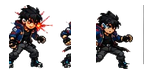
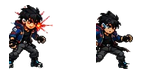
Fix wall-slide slicing and crop leakage in player sheets
Audit findings (docs/AUDITORIA_VISUAL_2026-10-30.md):
- All four wall_slide sheets held 2-3 poses at irregular x, but the game
  slices 4 equal cells, so frames showed half bodies (Jhon's 4th frame was
  a lone 1 px guide line). tools/visual/repack_wall_slide.py moves each
  whole pose, pixel-identical, into its own centred cell (A,B,A,B or
  A,B,C,B); sheet sizes are unchanged and the per-frame offsets go to 0.
- Jhon idle/walk/hurt/wall_climb kept slivers of neighbouring poses at
  cell edges. tools/visual/clean_sheet_fragments.py erases only the
  reviewed fragments listed in its manifest; no body pixel changes.

The wall-alignment smoke test now measures centring from the sheet itself.

Claude-Session: https://claude.ai/code/session_01BsDvQbboM7WnaEtQSbuWgs

Changed region(s): [[0.375, 0.3056, 0.4688, 0.9444], [0.875, 0.0833, 0.9062, 0.8889]]

diff --git a/tools/visual/repack_wall_slide.py b/tools/visual/repack_wall_slide.py
@@ -1,0 +1,111 @@
+"""Repack the wall-slide sheets so each 4-frame cell holds one whole pose.
+
+The source sheets hold 2-3 poses at irregular x positions, but the game slices them
+into 4 equal cells (PlayerCharacterVisual: wall_slide = 4 frames), so frames showed
+half bodies and, for Jhon, a frame with only a stray 1 px line. This keeps every pose
+pixel-identical: it only moves whole poses into centred cells, drops specks that are
+not part of a pose, and keeps sheet size and vertical placement unchanged.
+
+    python3 -I tools/visual/repack_wall_slide.py [--check]
+"""
+from __future__ import annotations
+
+import sys
+from pathlib import Path
+
+from PIL import Image
+
+ROOT = Path(__file__).resolve().parents[2]
+SHEETS = {
+    "jhon": "assets/players/jhon/jhon_v2_wall_slide_v2.png",
+    "jackson": "assets/players/jackson/jackson_wall_slide_v1.png",
+    "kai": "assets/players/kai/kai_wall_slide_v1.png",
+    "spark": "assets/players/spark/spark_wall_slide_v1.png",
+}
+FRAMES = 4
+ALPHA_MIN = 16
+POSE_MIN_PIXELS = 200  # anything smaller is a speck, not a body
+
+
+def components(alpha: Image.Image) -> list[set[tuple[int, int]]]:
+    w, h = alpha.size
+    px = alpha.load()
+    seen: set[tuple[int, int]] = set()
+    found = []
+    for y in range(h):
+        for x in range(w):
+            if px[x, y] <= ALPHA_MIN or (x, y) in seen:
+                continue
+            stack, group = [(x, y)], set()
+            seen.add((x, y))
+            while stack:
+                cx, cy = stack.pop()
+                group.add((cx, cy))
+                for dx in (-1, 0, 1):
+                    for dy in (-1, 0, 1):
+                        nx, ny = cx + dx, cy + dy
+                        if 0 <= nx < w and 0 <= ny < h and (nx, ny) not in seen and px[nx, ny] > ALPHA_MIN:
+                            seen.add((nx, ny))
+                            stack.append((nx, ny))
+            found.append(group)
+    return found
+
+
+def poses(image: Image.Image) -> list[tuple[int, int, set]]:
+    """Large components are bodies; small ones join a body they overlap on x."""
+    parts = components(image.getchannel("A"))
+    bodies = [p for p in parts if len(p) >= POSE_MIN_PIXELS]
+    result = []
+    for body in sorted(bodies, key=lambda p: min(x for x, _ in p)):
+        result.append([min(x for x, _ in body), max(x for x, _ in body), set(body)])
+    for part in parts:
+        if len(part) >= POSE_MIN_PIXELS:
+            continue
+        x0, x1 = min(x for x, _ in part), max(x for x, _ in part)
+        for pose in result:
+            if x0 <= pose[1] + 2 and x1 >= pose[0] - 2:  # touches the pose column: effect detail
+                pose[2] |= part
+                pose[0], pose[1] = min(pose[0], x0), max(pose[1], x1)
+                break
+        # else: an isolated speck between poses; dropped on purpose
+    return [tuple(p) for p in result]
+
+
+def repack(path: Path) -> Image.Image:
+    source = Image.open(path).convert("RGBA")
+    w, h = source.size
+    cell = w // FRAMES
+    found = poses(source)
+    if len(found) == FRAMES and all(x0 // cell == x1 // cell == i for i, (x0, x1, _) in enumerate(found)):
+        return source  # already one pose per cell: idempotent
+    if len(found) not in (2, 3):
+        raise SystemExit(f"{path}: expected 2 or 3 poses, found {len(found)}")
+    order = [0, 1, 0, 1] if len(found) == 2 else [0, 1, 2, 1]
+    out = Image.new("RGBA", (w, h), (0, 0, 0, 0))
+    src = source.load()
+    dst = out.load()
+    for frame, pose_index in enumerate(order):
+        x0, x1, pixels = found[pose_index]
+        width = x1 - x0 + 1
+        if width > cell:
+            raise SystemExit(f"{path}: pose {pose_index} is {width}px, wider than the {cell}px cell")
+        shift = frame * cell + (cell - width) // 2 - x0
+        for x, y in pixels:
+            dst[x + shift, y] = src[x, y]
+    return out
+
+
+def main() -> None:
+    check = "--check" in sys.argv
+    for name, relative in SHEETS.items():
+        path = ROOT / relative
+        result = repack(path)
+        if check:
+            print(name, "would change" if result.tobytes() != Image.open(path).convert("RGBA").tobytes() else "ok")
+        else:
+            result.save(path, optimize=True)
+            print("repacked", relative)
+
+
+if __name__ == "__main__":
+    main()

diff --git a/tools/visual/clean_sheet_fragments.py b/tools/visual/clean_sheet_fragments.py
@@ -1,0 +1,73 @@
+"""Remove crop leakage from sprite sheets, one reviewed fragment at a time.
+
+Some sheets were cut from larger generated sources and kept slivers of the
+neighbouring pose (a hand, half a torso, a 1 px guide line) at cell edges. Each entry
+below names one connected fragment by (min_x, min_y, pixel_count); the tool erases
+exactly that component and nothing else, and refuses to run if the sheet no longer
+matches (so it is safe to re-run). Effect particles are intentionally NOT listed.
+
+    python3 -I tools/visual/clean_sheet_fragments.py [--check]
+"""
+from __future__ import annotations
+
+import sys
+from pathlib import Path
+
+from PIL import Image
+
+sys.path.insert(0, str(Path(__file__).resolve().parent))
+from repack_wall_slide import components  # noqa: E402
+
+ROOT = Path(__file__).resolve().parents[2]
+# Reviewed 30/10/2026 against zoomed sheets (docs/AUDITORIA_VISUAL_2026-10-30.md).
+LEAKS = {
+    "assets/players/jhon/jhon_v2_idle_v2.png": [(158, 33, 14)],
+    "assets/players/jhon/jhon_v2_walk_run_v2.png": [
+        (232, 40, 11), (304, 11, 12), (304, 35, 42), (304, 57, 24),
+        (369, 11, 25), (369, 24, 3), (369, 30, 72), (369, 59, 23),
+    ],
+    "assets/players/jhon/jhon_v2_hurt_v2.png": [(60, 21, 217), (60, 53, 115), (143, 5, 60)],
+    "assets/players/jhon/jhon_v2_wall_climb_v2.png": [(54, 17, 12)],
+}
+
+
+def clean(path: Path, leaks: list[tuple[int, int, int]]) -> tuple[Image.Image, int]:
+    image = Image.open(path).convert("RGBA")
+    index = {}
+    for part in components(image.getchannel("A")):
+        key = (min(x for x, _ in part), min(y for _, y in part), len(part))
+        index[key] = part
+    px = image.load()
+    removed = 0
+    for leak in leaks:
+        part = index.get(leak)
+        if part is None:
+            continue  # already cleaned
+        for x, y in part:
+            px[x, y] = (0, 0, 0, 0)
+        # Near-invisible antialias residue of the same sliver (alpha <= 16) goes too.
+        x0, x1 = min(x for x, _ in part) - 2, max(x for x, _ in part) + 2
+        y0, y1 = min(y for _, y in part) - 2, max(y for _, y in part) + 2
+        for y in range(max(y0, 0), min(y1 + 1, image.height)):
+            for x in range(max(x0, 0), min(x1 + 1, image.width)):
+                if 0 < px[x, y][3] <= 16:
+                    px[x, y] = (0, 0, 0, 0)
+        removed += 1
+    return image, removed
+
+
+def main() -> None:
+    check = "--check" in sys.argv
+    for relative, leaks in LEAKS.items():
+        image, removed = clean(ROOT / relative, leaks)
+        if check:
+            print(relative, f"{removed} pending" if removed else "clean")
+        elif removed:
+            image.save(ROOT / relative, optimize=True)
+            print(f"cleaned {removed}/{len(leaks)}", relative)
+        else:
+            print("already clean", relative)
+
+
+if __name__ == "__main__":
+    main()
